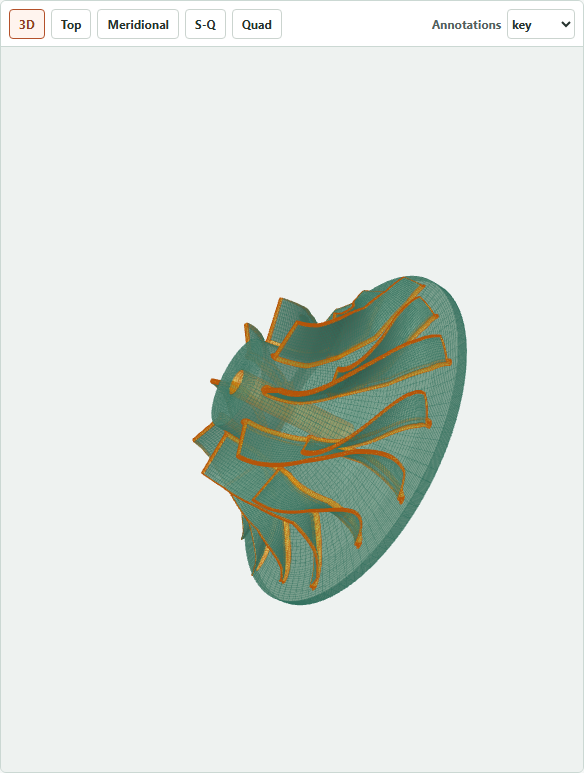
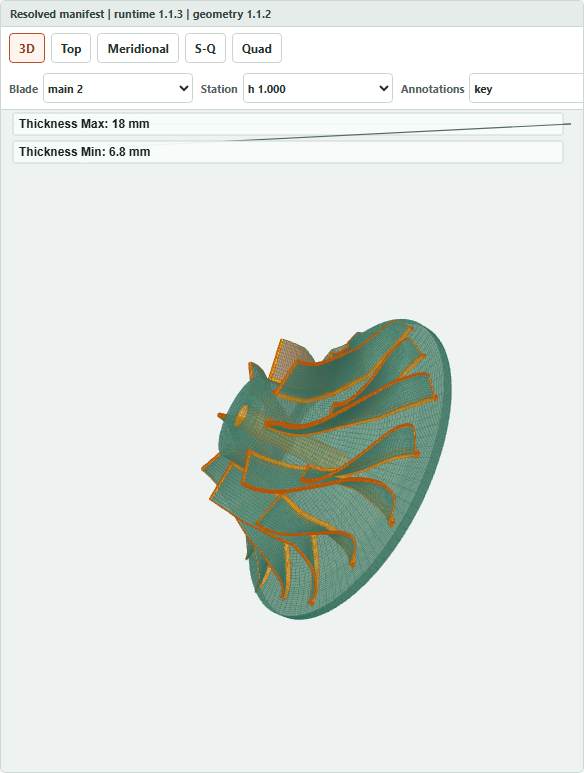
fix: finalize inspection smoke evidence

diff --git a/frontend/src/components/SectionLoopInspectionView.js b/frontend/src/components/SectionLoopInspectionView.js
@@ -15,12 +15,15 @@ const SEGMENT_CLASS = {
 
 const SEGMENT_ORDER = ["pressure_side", "leading_edge", "suction_side", "trailing_edge"];
 
-export function SectionLoopInspectionView({ loop, selection = {}, annotationLevel = "key", onSelect }) {
+export function SectionLoopInspectionView({ loop, selection = {}, annotationLevel = "key", annotations = [], onSelect }) {
   const segments = sectionSegments(loop);
+  const plotTop = Math.min(260, PADDING + annotations.length * 28);
+  const joinMetricCount = Object.keys(loop?.join_metrics || {}).length;
+  const plotBottom = Math.max(PADDING, joinMetricCount * 22 + 40);
   const transform = fitPoints(segments.flatMap((segment) => [
     ...segment.points,
     ...segment.controls.map((control) => control.point),
-  ]));
+  ]), plotTop, plotBottom);
   const controlsVisible = annotationLevel === "selected" || annotationLevel === "all";
 
   return h(
@@ -34,10 +37,10 @@ export function SectionLoopInspectionView({ loop, selection = {}, annotationLeve
         role: "img",
         "aria-label": loop?.section_loop_id ? `S-Q section loop ${loop.section_loop_id}` : "No S-Q section loop selected",
       },
-      renderAxes(),
+      renderAxes(plotTop, plotBottom),
       segments.map((segment) => renderActualSegment(segment, transform, selection, onSelect)),
       controlsVisible ? segments.map((segment) => renderControlGeometry(segment, transform, selection, onSelect)) : null,
-      renderJoinMetrics(loop?.join_metrics || {}),
+      renderJoinMetrics(loop?.join_metrics || {}, plotBottom),
       !segments.length ? h("text", { className: "section-loop-empty", x: 500, y: 350, textAnchor: "middle" }, "No section loop selected") : null,
     ),
   );
@@ -67,7 +70,7 @@ function finitePoints(points) {
   );
 }
 
-function fitPoints(points) {
+function fitPoints(points, plotTop = PADDING, plotBottom = PADDING) {
   const finite = finitePoints(points);
   if (!finite.length) {
     return (point) => [VIEWBOX_WIDTH / 2, VIEWBOX_HEIGHT / 2];
@@ -81,23 +84,24 @@ function fitPoints(points) {
   const maxQ = Math.max(...qValues);
   const spanS = Math.max(maxS - minS, 1e-9);
   const spanQ = Math.max(maxQ - minQ, 1e-9);
-  const scale = Math.min((VIEWBOX_WIDTH - PADDING * 2) / spanS, (VIEWBOX_HEIGHT - PADDING * 2) / spanQ);
+  const availableHeight = VIEWBOX_HEIGHT - plotTop - plotBottom;
+  const scale = Math.min((VIEWBOX_WIDTH - PADDING * 2) / spanS, availableHeight / spanQ);
   const drawnWidth = spanS * scale;
   const drawnHeight = spanQ * scale;
   const offsetS = (VIEWBOX_WIDTH - drawnWidth) / 2 - minS * scale;
-  const offsetQ = (VIEWBOX_HEIGHT - drawnHeight) / 2 + maxQ * scale;
+  const offsetQ = plotTop + (availableHeight - drawnHeight) / 2 + maxQ * scale;
 
   return (point) => [offsetS + Number(point[0]) * scale, offsetQ - Number(point[1]) * scale];
 }
 
-function renderAxes() {
+function renderAxes(plotTop, plotBottom) {
   return h(
     "g",
     { className: "section-loop-axes" },
-    h("line", { x1: PADDING, y1: VIEWBOX_HEIGHT - PADDING, x2: VIEWBOX_WIDTH - PADDING, y2: VIEWBOX_HEIGHT - PADDING }),
-    h("line", { x1: PADDING, y1: PADDING, x2: PADDING, y2: VIEWBOX_HEIGHT - PADDING }),
+    h("line", { x1: PADDING, y1: VIEWBOX_HEIGHT - plotBottom, x2: VIEWBOX_WIDTH - PADDING, y2: VIEWBOX_HEIGHT - plotBottom }),
+    h("line", { x1: PADDING, y1: plotTop, x2: PADDING, y2: VIEWBOX_HEIGHT - plotBottom }),
     h("text", { x: VIEWBOX_WIDTH - PADDING, y: VIEWBOX_HEIGHT - 36, textAnchor: "end" }, "S (mm)"),
-    h("text", { x: PADDING + 12, y: PADDING + 16 }, "Q (mm)"),
+    h("text", { x: PADDING + 12, y: plotTop + 16 }, "Q (mm)"),
   );
 }
 
@@ -161,11 +165,10 @@ function renderControlGeometry(segment, transform, selection, onSelect) {
   );
 }
 
-function renderJoinMetrics(joinMetrics) {
+function renderJoinMetrics(joinMetrics, plotBottom) {
   const entries = Object.entries(joinMetrics);
   const lineHeight = 22;
-  const lastLineY = VIEWBOX_HEIGHT - PADDING - 18;
-  const firstLineY = lastLineY - Math.max(0, entries.length - 1) * lineHeight;
+  const firstLineY = VIEWBOX_HEIGHT - plotBottom + 24;
   return h(
     "g",
     { className: "section-loop-join-metrics" },

diff --git a/frontend/src/components/SectionLoopInspectionView.test.js b/frontend/src/components/SectionLoopInspectionView.test.js
@@ -108,6 +108,17 @@ function actualOpenPresetLoopFixture() {
   loop.streamwise_metric_scale_mm = 667.5320490261993;
   loop.source_coordinate_units = { s: "normalized", q: "mm" };
   loop.display_coordinate_units = { s: "mm", q: "mm" };
+  loop.join_metrics = Object.fromEntries([
+    "pressure_to_leading",
+    "leading_to_suction",
+    "suction_to_trailing",
+    "trailing_to_pressure",
+  ].map((joinId) => [joinId, {
+    status: "PASS",
+    position_gap_mm: 0,
+    tangent_angle_deg: 0.001,
+    curvature_proxy_mismatch: 0.01,
+  }]));
   const actualDisplayPoints = {
     pressure_side: [[40.05192294157195, -7.7], [186.90897372733582, 35.753125], [333.76602451309964, 132.925], [480.62307529886345, 231.109375], [627.4801260846273, 277.6]],
     leading_edge: [[40.05192294157195, -7.7], [34.60720045381796, -5.444722215], [32.351922732689424, 0], [34.60720045381796, 5.444722215], [40.05192294157195, 7.7]],
@@ -203,6 +214,35 @@ describe("SectionLoopInspectionView source contract", () => {
     assert.ok(drawnWidth > 700, drawnWidth);
     assert.ok(drawnHeight > 300, drawnHeight);
     assert.ok(drawnWidth / drawnHeight > 1.8 && drawnWidth / drawnHeight < 2.2, drawnWidth / drawnHeight);
+  });
+
+  test("reserves a deterministic upper rail for visible annotations", () => {
+    const SectionLoopInspectionView = loadComponent(sectionViewPath, "SectionLoopInspectionView");
+    const annotations = Array.from({ length: 6 }, (_, index) => ({ id: `annotation-${index}` }));
+    const tree = SectionLoopInspectionView({
+      loop: actualOpenPresetLoopFixture(),
+      annotationLevel: "all",
+      annotations,
+    });
+    const curves = collectElements(tree, (node) => node.type === "polyline" && /actual-section-loop/.test(node.props.className));
+    const ys = curves.flatMap((curve) => curve.props.points.split(" ").map((point) => Number(point.split(",")[1])));
+
+    assert.ok(Math.min(...ys) >= 200, Math.min(...ys));
+  });
+
+  test("keeps continuity metrics in a lower rail outside the loop", () => {
+    const SectionLoopInspectionView = loadComponent(sectionViewPath, "SectionLoopInspectionView");
+    const tree = SectionLoopInspectionView({
+      loop: actualOpenPresetLoopFixture(),
+      annotationLevel: "all",
+      annotations: Array.from({ length: 6 }, (_, index) => ({ id: `annotation-${index}` })),
+    });
+    const curves = collectElements(tree, (node) => node.type === "polyline" && /actual-section-loop/.test(node.props.className));
+    const curveYs = curves.flatMap((curve) => curve.props.points.split(" ").map((point) => Number(point.split(",")[1])));
+    const metricYs = collectElements(tree, (node) => node.type === "text" && /_to_/.test(visibleText(node)))
+      .map((node) => node.props.y);
+
+    assert.ok(Math.min(...metricYs) > Math.max(...curveYs), `${Math.min(...metricYs)} <= ${Math.max(...curveYs)}`);
   });
 
   test("keeps join metrics below the top annotation lanes", () => {

diff --git a/frontend/src/styles.css b/frontend/src/styles.css
@@ -1126,8 +1126,9 @@ pre {
   display: flex;
   min-height: 46px;
   align-items: center;
-  justify-content: space-between;
   gap: 10px;
+  flex-wrap: wrap;
+  justify-content: flex-start;
   padding: 6px 8px;
   border-bottom: 1px solid #cbd8d3;
   background: #ffffff;
@@ -1139,6 +1140,20 @@ pre {
   min-width: 0;
   flex-wrap: wrap;
   gap: 6px;
+  flex: 1 1 260px;
+}
+
+.inspection-workspace-toolbar.narrow {
+  display: grid;
+  grid-template-columns: minmax(0, 1fr);
+  align-items: start;
+  padding-bottom: 36px;
+}
+
+.inspection-workspace-toolbar.narrow .inspection-tab-list,
+.inspection-workspace-toolbar.narrow .inspection-entity-selectors {
+  width: 100%;
+  min-width: 0;
 }
 
 .inspection-tab-list button,
@@ -1174,13 +1189,14 @@ pre {
 
 .inspection-entity-selectors {
   display: flex;
-  flex: 0 1 auto;
+  flex: 1 1 300px;
   align-items: center;
   gap: 8px;
 }
 
 .inspection-entity-selectors label {
   display: flex;
+  flex: 0 0 auto;
   align-items: center;
   gap: 5px;
   color: #52635e;
@@ -1197,6 +1213,28 @@ pre {
   background: #ffffff;
   color: #26332e;
   font-size: 11px;
+}
+
+.inspection-entity-selectors.narrow {
+  display: grid;
+  width: 100%;
+  max-width: 100%;
+  flex: 1 0 100%;
+  grid-template-columns: minmax(0, 1fr);
+  grid-auto-rows: minmax(30px, auto);
+  row-gap: 6px;
+}
+
+.inspection-entity-selectors.narrow label {
+  width: 100%;
+  min-height: 30px;
+  min-width: 0;
+}
+
+.inspection-entity-selectors.narrow select {
+  width: 100%;
+  min-width: 0;
+  flex: 1 1 auto;
 }
 
 .inspection-annotation-control select {
@@ -1349,13 +1387,24 @@ pre {
     flex-direction: column;
   }
 
+  .inspection-tab-list,
   .inspection-entity-selectors {
     width: 100%;
+    flex: 0 0 auto;
+    align-items: center;
+  }
+
+  .inspection-entity-selectors {
     flex-wrap: wrap;
   }
 
   .inspection-entity-selectors select {
     width: min(220px, 52vw);
+  }
+
+  .inspection-annotation-control {
+    width: 100%;
+    flex: 0 0 auto;
   }
 
   .inspection-workspace-quad {

diff --git a/frontend/src/components/ParameterInspectionWorkspace.js b/frontend/src/components/ParameterInspectionWorkspace.js
@@ -122,7 +122,7 @@ export function ParameterInspectionWorkspace({ manifest = null, visibleLayers, v
     h("div", { className: "inspection-provenance-badge", "data-testid": "inspection-provenance" }, "Resolved manifest | runtime 1.1.3 | geometry 1.1.2"),
     h(
       "div",
-      { className: "inspection-workspace-toolbar" },
+      { className: `inspection-workspace-toolbar${narrowQuad ? " narrow" : ""}` },
       h(
         "div",
         { className: "inspection-tab-list", role: "tablist", "aria-label": "Inspection views" },
@@ -144,7 +144,7 @@ export function ParameterInspectionWorkspace({ manifest = null, visibleLayers, v
       ),
       h(
         "div",
-        { className: "inspection-entity-selectors" },
+        { className: `inspection-entity-selectors${narrowQuad ? " narrow" : ""}` },
         h(
           "label",
           null,
@@ -178,19 +178,19 @@ export function ParameterInspectionWorkspace({ manifest = null, visibleLayers, v
             }),
           ),
         ),
-      ),
-      h(
-        "label",
-        { className: "inspection-annotation-control" },
-        h("span", null, "Annotations"),
         h(
-          "select",
-          {
-            value: annotationLevel,
-            "data-testid": "inspection-annotation-level",
-            onInput: (event) => setAnnotationLevel(event.target.value),
-          },
-          ANNOTATION_LEVELS.map((level) => h("option", { key: level, value: level }, level)),
+          "label",
+          { className: "inspection-annotation-control" },
+          h("span", null, "Annotations"),
+          h(
+            "select",
+            {
+              value: annotationLevel,
+              "data-testid": "inspection-annotation-level",
+              onInput: (event) => setAnnotationLevel(event.target.value),
+            },
+            ANNOTATION_LEVELS.map((level) => h("option", { key: level, value: level }, level)),
+          ),
         ),
       ),
     ),

diff --git a/frontend/src/parameterInspectionModel.js b/frontend/src/parameterInspectionModel.js
@@ -327,7 +327,9 @@ function profileAnnotations(model) {
 
 function sectionAnnotations(model, selection) {
   const loop = sectionLoopForSelection(model, selection);
-  const dimensions = Object.entries(model.contract.resolved_dimensions || {}).map(([dimensionId, dimension]) =>
+  const dimensions = Object.entries(model.contract.resolved_dimensions || {})
+    .filter(([dimensionId]) => ["thickness_min_mm", "thickness_max_mm"].includes(dimensionId))
+    .map(([dimensionId, dimension]) =>
     annotation({
       id: `s_q:${dimensionId}`,
       level: "key",
@@ -337,8 +339,7 @@ function sectionAnnotations(model, selection) {
       unit: dimension.unit,
       requestedUnit: dimension.requested_unit,
       anchor: { kind: "section_loop", sectionLoopId: loop?.section_loop_id || null },
-    }),
-  );
+    }));
   if (!loop) {
     return dimensions;
   }

diff --git a/frontend/src/parameterInspectionModel.test.js b/frontend/src/parameterInspectionModel.test.js
@@ -171,6 +171,10 @@ describe("parameter inspection model", () => {
     const selection = defaultInspectionSelection(model);
     assert.ok(annotationsForView(model, "s_q", "key", selection).length > 0);
     assert.ok(annotationsForView(model, "s_q", "all", selection).length >= annotationsForView(model, "s_q", "key", selection).length);
+    assert.deepEqual(
+      annotationsForView(model, "s_q", "key", selection).map((annotation) => annotation.id),
+      ["s_q:thickness_min_mm", "s_q:thickness_max_mm"],
+    );
   });
 
   test("selected surface excludes sibling surfaces on the same blade", () => {

diff --git a/frontend/src/components/ParameterInspectionWorkspace.test.js b/frontend/src/components/ParameterInspectionWorkspace.test.js
@@ -77,5 +77,6 @@ describe("ParameterInspectionWorkspace source contract", () => {
     assert.match(styles, /\.inspection-quad-pane-meridional\s*\{\s*grid-row: 2;/);
     assert.match(styles, /\.inspection-quad-pane-s_q\s*\{\s*grid-row: 3;/);
     assert.match(styles, /\.inspection-quad-pane-top\s*\{\s*grid-row: 4;/);
+    assert.match(styles, /\.inspection-tab-list,\s*\.inspection-entity-selectors\s*\{\s*width: 100%;\s*flex: 0 0 auto;/);
   });
 });
